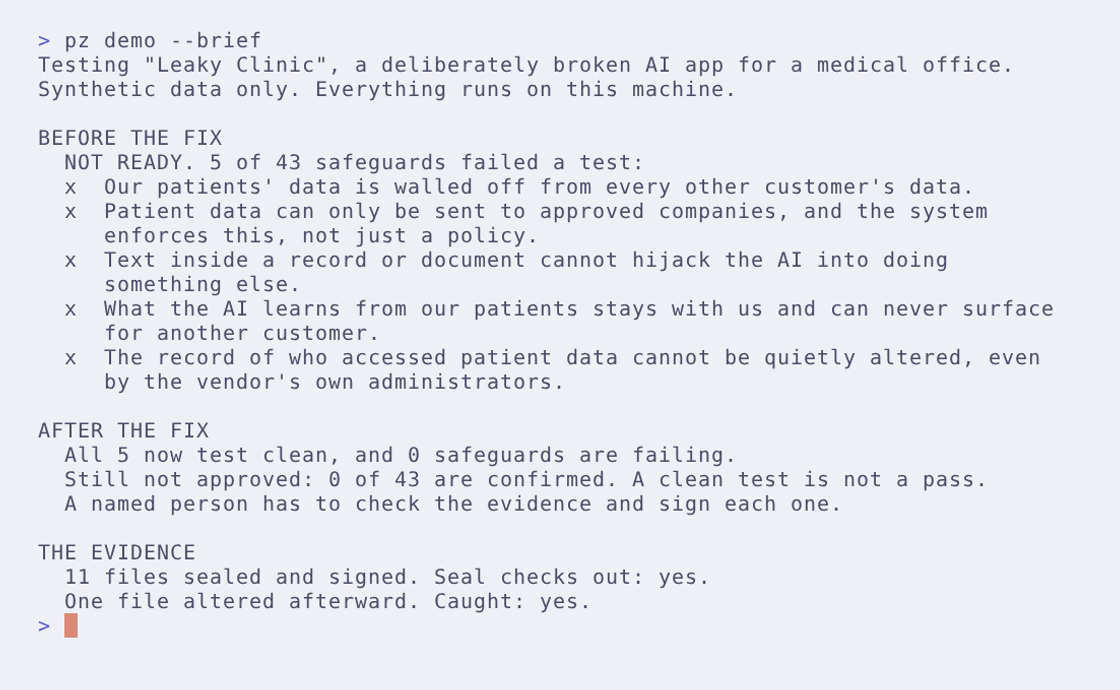
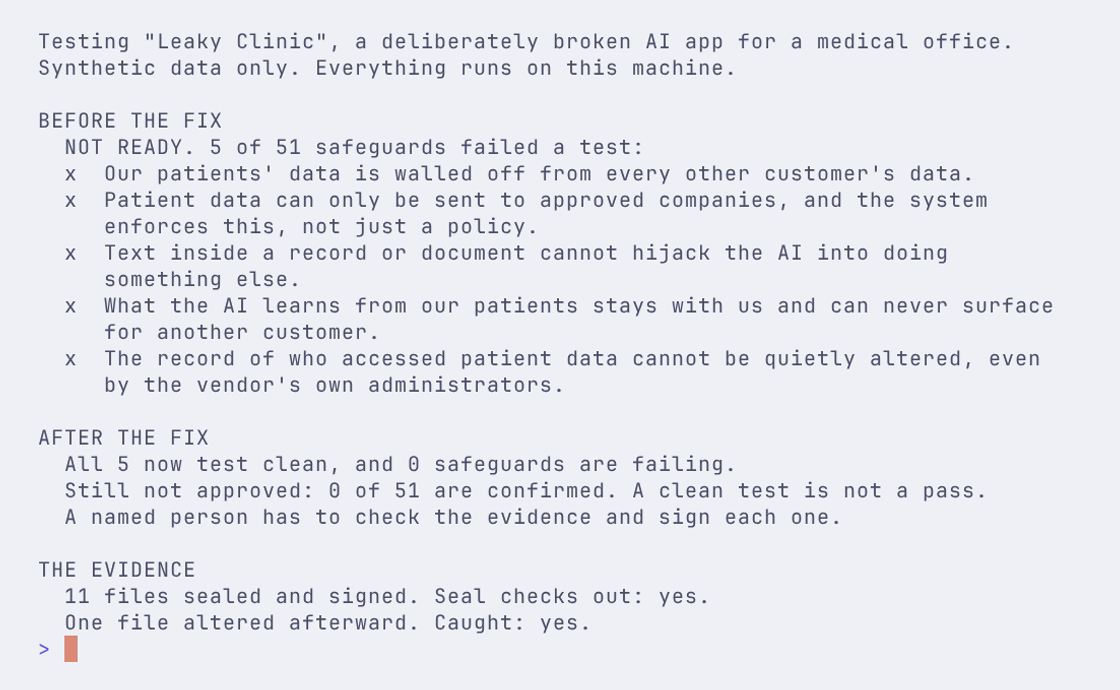
Check the consent citations against the sources, re-record the demo
Checked against eCFR (current to 2026-11-19), the Nevada Legislature's NRS
text, and secondary sources for case law and California AB 3030.

- CONSENT-5: 42 CFR 2.12(c)(4) lets a Part 2 program share records with a
  qualified service organization without patient consent. The control now
  asks for a QSO agreement and limits use to the services to the program,
  instead of wrongly requiring consent for any vendor access.
- CONSENT-7: the HIPAA Privacy Rule final rule published 2026-11-19 (FR Doc.
  2026-23429, compliance 2027-07-19) cuts access response to 15 calendar
  days and lets a BAA require direct delivery by the business associate.
- NV-6: notes Sharpe (2015) and that Ditech v. Buckles (2017) puts
  recordings made outside Nevada beyond NRS 200.620.
- Known-gap file rewritten: what was checked, what it corrected, what still
  needs a lawyer. Severity lowered to MEDIUM.
- docs/demo.gif, docs/demo.png and docs/report.png re-recorded for the
  51-control profile.

Claude-Session: https://claude.ai/code/session_01Cm1ojr8SwgtyWwH7CLrdFC

diff --git a/docs/VENDOR-QUESTIONNAIRE.md b/docs/VENDOR-QUESTIONNAIRE.md
@@ -84,9 +84,9 @@ How to use it: send the list, ask for written answers with the evidence attached
 | 37 (CONSENT-2) | Nobody is recorded for an AI feature until everyone in the conversation has been told and has agreed, and saying no still allows the visit. | Before your product records or transcribes a visit or call, how is every person told and asked, where is their answer kept, and what happens if they say no? | The screen or script used to ask, a sample of the stored agreement, and the visit flow with recording turned off. |
 | 38 (CONSENT-3) | The vendor explains each AI feature, what patient data it uses and where it falls short, in words we can pass on to patients. | For each AI feature, can you give us a plain description of what it does, what patient information it uses, its known limits and whether a person checks it? | The written description for every AI feature, dated and matching the current release. |
 | 39 (CONSENT-4) | If a patient says no to AI, we can switch AI off for that patient, and the product keeps to that everywhere. | If a patient asks that AI not be used with their information, how do we turn it off for that one patient, and which features does that cover? | The per-patient setting, and a test showing that no AI feature or automated task uses that patient's information once it is off. |
-| 40 (CONSENT-5) | Addiction treatment records, which federal law protects more strictly, are marked and kept from the AI unless the patient's written consent allows it. | How does your product identify substance use disorder treatment records covered by 42 CFR Part 2, and what keeps them from your AI and other companies without the patient's consent? | How such records are marked, and a test showing a marked record is refused by the AI features without matching consent on file. |
+| 40 (CONSENT-5) | Addiction treatment records, which federal law protects more strictly, stay within the work the vendor does for us unless the patient consents. | Will you sign the agreement 42 CFR Part 2 requires, and what keeps addiction treatment records from other companies and other uses without the patient's written consent? | The signed agreement, how such records are identified, and a test showing they are refused for any use the agreement and consent do not cover. |
 | 41 (CONSENT-6) | AI that helps with care decisions comes with the facts we need to check it does not treat some patients worse, such as by race, sex, age or disability. | Which inputs does your AI use to support care decisions, does it use race, sex, age, disability or national origin, and how well does it perform for each patient group? | The list of inputs and performance results broken down by patient group, for the current version. |
-| 42 (CONSENT-7) | Patients can see and correct what the AI wrote in their record, and we can list every time the AI shared their information. | Can a patient get a copy of, and ask to correct, what your AI wrote in their record, and can you list each time the AI sent their information somewhere? | A sample record export that includes AI-written content, and a sample list of disclosures that includes ones the AI made. |
+| 42 (CONSENT-7) | Patients can see and correct what the AI wrote in their record, and we can list every time the AI shared their information. | Can we give a patient a copy of what your AI wrote in their record within days, let them correct it, and list each time the AI sent their information somewhere? | A sample record export that includes AI-written content and how long it takes, and a sample list of disclosures that includes ones the AI made. |
 | 43 (CONSENT-8) | Before patient information is used to test or improve the AI, it has names and other identifying details removed by an accepted method. | Do you use our patient information to test or improve your AI, and if so, how do you remove identifying details first and who checked it? | The written method, and the review or expert sign-off that the information can no longer identify anyone. |
 
 ## Nevada law

diff --git a/known-gaps/things-that-do-not-work/20261121-consent-controls-and-laws-not-legally-reviewed.md b/known-gaps/things-that-do-not-work/20261121-consent-controls-and-laws-not-legally-reviewed.md
@@ -1,17 +1,22 @@
-Severity: HIGH
+Severity: MEDIUM
 Gap-Class: unverified
 
-# The CONSENT family and Nevada item NV-6 cite laws nobody has checked against the source
+# The CONSENT family and Nevada item NV-6 have not been reviewed by a lawyer
 
-The eight CONSENT controls (patient-facing AI notices, recording consent, AI descriptions for patients, per-patient opt-out, 42 CFR Part 2 records, bias reporting under 45 CFR 92.210, patient rights, de-identification) and NV-6 (recording consent under NRS 200.620 and 200.650) were written from the author's knowledge. Unlike the original HIPAA citations, none of these were checked against eCFR or the statute text.
+On 2026-11-21 the author checked the citations against the sources:
 
-Specific doubts:
+- 45 CFR 164.502(a)(4)(ii), 164.514(b), 164.520, 164.522, 164.524, 164.526, 164.528 and 92.210, and 42 CFR 2.11, 2.12, 2.31 and 2.32, against eCFR as current on 2026-11-19.
+- The HIPAA Privacy Rule final rule published 2026-11-19 (FR Doc. 2026-23429, effective 2027-01-19, compliance 2027-07-19). It cuts the time to act on an access request to 15 calendar days and lets a BAA require the business associate to deliver copies directly to the patient. CONSENT-7 now says so.
+- NRS 200.620 and 200.650 against the Nevada Legislature's current text.
+- California AB 3030 (Health and Safety Code 1339.75) through secondary sources only.
 
-- 45 CFR 164.514(b), 164.520, 164.522, 164.524, 164.526 and 164.528 are cited at family level without confirming that each is the right home.
-- 42 CFR Part 2 was substantially amended in 2024. CONSENT-5 does not reflect the details of the amended consent and redisclosure rules.
-- 45 CFR 92.210 applies to covered entities that use patient care decision support tools. CONSENT-6 asks the vendor to supply what the customer needs, which is a reading of the rule, not something it requires of vendors.
-- State laws on AI in patient communications (for example California AB 3030) and on recording consent differ by state. CONSENT-1 and CONSENT-2 are written to the strictest common case, not to any one statute.
-- NV-6 relies on Lane v. Allstate (Nev. 1998) for all-party consent on telephone recordings. That case was not re-read for this overlay.
+That check corrected two things. CONSENT-5 had said Part 2 records may not reach a vendor without patient consent, but 42 CFR 2.12(c)(4) lets a program share them with a qualified service organization without consent. NV-6 now notes that NRS 200.620 does not reach recordings made outside Nevada (Ditech v. Buckles, 2017).
+
+What is still open:
+
+- Lane v. Allstate (Nev. 1998), Sharpe v. State (2015) and Ditech v. Buckles (2017) are cited from secondary sources, not read in full.
+- 45 CFR 92.210 binds covered entities that use decision support tools. CONSENT-6 asks the vendor to supply what the customer needs, which is a reading of the rule, not something it requires of vendors.
+- CONSENT-1 and CONSENT-2 are written to the strictest common case, not to any one state's statute.
 - None of the CONSENT controls has a probe.
 
-What would close this: a health privacy lawyer checks each citation and the NV-6 reading, corrections are merged, and `hipaa_citations_checked` covers the CONSENT family.
+What would close this: a health privacy lawyer reviews each control and NV-6, corrections are merged, and the reviewer is credited.

diff --git a/docs/PROFILE.md b/docs/PROFILE.md
@@ -109,15 +109,15 @@ HIPAA 164.308(a)(8). SP 800-53 CA-2, CA-8, RA-5, SA-11. CSF ID.RA, ID.IM.
 
 People know when AI is involved, can decline it where they have that right, and are not treated worse by it.
 
-HIPAA 164.514(b), 164.520, 164.522, 164.524, 164.526, 164.528. SP 800-53 PT-2, PT-4, PT-5, PT-7, SA-8. CSF GV.OC, GV.PO, PR.DS.
+HIPAA 164.502(a)(4)(ii), 164.514(b), 164.520, 164.522, 164.524, 164.526, 164.528. SP 800-53 PT-2, PT-4, PT-5, PT-7, SA-8. CSF GV.OC, GV.PO, PR.DS.
 
 - **CONSENT-1** (L1) Content an AI generates and sends to a patient without a clinician reviewing it first shall say that AI wrote it and how to reach a person.
 - **CONSENT-2** (L1) Before a visit or call is recorded or transcribed for an AI feature, every party shall be told and shall agree, the agreement shall be recorded, and the visit shall be able to go ahead without recording.
 - **CONSENT-3** (L1) For each AI feature the vendor shall document what it does, what patient data it uses, its known limits and whether a person reviews its output, in language the customer can give to patients.
 - **CONSENT-4** (L1) When a patient declines AI involvement, the customer shall be able to turn AI features off for that patient, and every feature, agent and background job shall honor that choice.
-- **CONSENT-5** (L1) Records covered by 42 CFR Part 2 (substance use disorder treatment) shall be marked when they enter the system and shall not reach an AI feature, a subprocessor or another workspace beyond what the patient's Part 2 consent permits.
+- **CONSENT-5** (L1) A vendor serving a 42 CFR Part 2 program (substance use disorder treatment) shall sign a qualified service organization agreement, shall be able to identify those records, and shall not let them reach a subprocessor, another workspace or a use beyond its services to the program unless Part 2 permits it through the patient's written consent or a listed exception.
 - **CONSENT-6** (L1) AI features that support patient care decisions shall be delivered with the inputs they use, including any race, color, national origin, sex, age or disability variables, and with performance results by patient group, so the customer can meet 45 CFR 92.210.
-- **CONSENT-7** (L1) The product shall support the patient rights the customer owes: access to and amendment of AI-generated content in the record, and an accounting of disclosures that includes disclosures made by agents.
+- **CONSENT-7** (L1) The product shall support the patient rights the customer owes: access to AI-generated content in the record fast enough for the customer to act within 15 calendar days (45 CFR 164.524(b)(2) from 2027-07-19), delivery of copies directly to the patient or their designee when the BAA requires it, amendment, and an accounting of disclosures that includes disclosures made by agents.
 - **CONSENT-8** (L1) Patient data used to evaluate or improve a model shall first be de-identified under 45 CFR 164.514, with the method and the Safe Harbor review or expert determination kept on file.
 
 HIPAA citations were checked to exist in eCFR on 2026-11-10. SP 800-53 and CSF identifiers are unchecked. The fit of every mapping is the author's judgment, not a legal opinion.

diff --git a/docs/NEVADA.md b/docs/NEVADA.md
@@ -6,7 +6,7 @@ State requirements that sit on top of HIPAA for AI products used in Nevada. Chec
 
 - **AB406:** [Assembly Bill 406 (2025), artificial intelligence in mental and behavioral health care](https://archive.leg.state.nv.us/Session/83rd2025/Bills/AB/AB406_EN.pdf), effective 2025-07-01
 - **SB370:** [Senate Bill 370 (2023), consumer health data, NRS 603A.500 to 603A.590](https://dwt.com/gcp/state-privacy-laws-tracker/broad-state-privacy-law-tracker/nevada), effective 2024-03-31
-- **NRS200:** [NRS 200.620 and 200.650, interception and recording of wire communications and private conversations](https://www.leg.state.nv.us/NRS/NRS-200.html) (long-standing law, not checked against the current text for this overlay)
+- **NRS200:** [NRS 200.620 and 200.650, interception and recording of wire communications and private conversations](https://www.leg.state.nv.us/NRS/NRS-200.html) (text checked 2026-11-21; the all-party reading comes from Lane v. Allstate (Nev. 1998), which was not re-read)
 
 ## NV-1: The AI must never present itself as a therapist or counselor, or as a way to get therapy.
 
@@ -60,7 +60,7 @@ State requirements that sit on top of HIPAA for AI products used in Nevada. Chec
 
 ## NV-6: Nobody on a phone or video call may be recorded or transcribed by an AI tool unless everyone on the call has agreed first.
 
-**Requirement (NRS200 NRS 200.620, 200.650).** A feature that records or transcribes a phone or video call shall obtain the consent of every party before recording, because the Nevada Supreme Court has read NRS 200.620 to require all-party consent for telephone recordings (Lane v. Allstate, 1998). In-person conversations under NRS 200.650 need at least one party's consent; CONSENT-2 in the profile asks for every party's agreement in all cases.
+**Requirement (NRS200 NRS 200.620, 200.650).** A feature that records or transcribes a phone or video call shall obtain the consent of every party before recording. NRS 200.620 bars intercepting a wire communication without one party's consent plus a court order or emergency, and the Nevada Supreme Court has read it to bar taping a call with only one party's consent (Lane v. Allstate, 1998; extended to cell phones in Sharpe v. State, 2015). It does not reach a recording made entirely outside Nevada (Ditech v. Buckles, 2017). In-person conversations under NRS 200.650 need one party's authorization; CONSENT-2 in the profile asks for every party's agreement in all cases.
 
 **Applies to:** AI scribes, call summaries and any feature that records or transcribes conversations with people in Nevada.
 

diff --git a/README.md b/README.md
@@ -288,7 +288,7 @@ patient-zero collects nothing and phones nowhere. The only network traffic it ev
 - **Not a NIST publication**, and not legal advice. Every HIPAA paragraph cited was checked to exist in eCFR on 2026-11-10; whether it is the right home for a control is the author's judgment. The SP 800-53 and CSF identifiers are unchecked.
 - **Not a pentest.** Nine probes touch 11 of 51 controls. The other 40 need a person, and so does the final call on those 11. [`docs/COVERAGE.md`](docs/COVERAGE.md) is generated from the code and lists every control.
 - **Not battle-tested.** Draft 0.1, one author, proven only against its own demo app. The agent probe plants one instruction per carrier in four dressings; current models shrug off naive injections, so a clean result says little, and the score reflects that. A model may also behave differently when it can tell it is being tested, which is why the markers look like ordinary words and the user agent is configurable.
-- **Not a consent or ethics review.** The CONSENT family asks whether patients are told about AI, can decline it, are recorded only with agreement, and are not treated worse by it. Its citations (42 CFR Part 2, 45 CFR 92.210, state AI and recording laws) have not been checked by a lawyer, and none of its controls has a probe. An IRB, an ethics committee or counsel still makes those calls.
+- **Not a consent or ethics review.** The CONSENT family asks whether patients are told about AI, can decline it, are recorded only with agreement, and are not treated worse by it. Its citations were checked against eCFR and the Nevada statutes on 2026-11-21, including the HIPAA Privacy Rule changes published 2026-11-19, but no lawyer has reviewed them, and none of its controls has a probe. An IRB, an ethics committee or counsel still makes those calls.
 - **Not tamper-proof logging.** The hash chain shows edits. It cannot show a cut tail unless you anchor the head hash somewhere the app cannot write.
 
 ## Things that do not work
